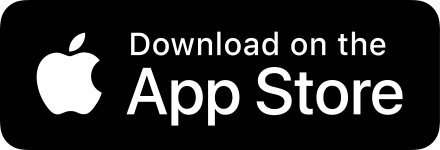
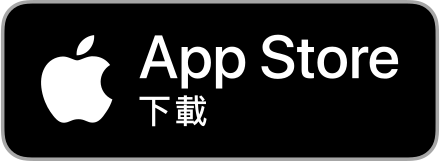
amends to zh-Hant localized

Changed region(s): [[0.2659, 0.2133, 0.9159, 0.8533], [0.0, 0.0, 1.0, 1.0], [0.0591, 0.2133, 0.2659, 0.7733]]

diff --git a/_includes/footer.html b/_includes/footer.html
@@ -1,6 +1,6 @@
 <footer>
 	{% if site.your_name %}
-	<p class="footerText">Made by {% if site.your_link %}<a href="{{ site.your_link }}">{% endif %}{{ site.your_name }}{% if site.your_link %}</a>{% endif %}{% if site.your_city %} in {{ site.your_city }}{% endif %}</p>
+	<p class="footerText">{% if site.your_city %}來自{{ site.your_city }}的{% endif %}{% if site.your_link %}<a href="{{ site.your_link }}">{% endif %}{{ site.your_name }}{% if site.your_link %}</a>{% endif %}所製作</p>
 	{% endif %}
 	<div class="footerIcons">
 

diff --git a/_pages/privacypolicy.md b/_pages/privacypolicy.md
@@ -1,11 +1,11 @@
 ---
 layout: page
-title: Privacy Policy for Aloud! - Text to Speech
+title: Privacy Policy for Hanyu Pinyin Dictionary
 include_in_header: false
 ---
 
 # Privacy Policy
-This privacy policy governs your use of the software application Aloud! - Text to Speech (“Application”) for mobile devices that was created by AppAppWorks. The Application is&nbsp;a text to speech reader that synthesizes speech from plain text supporting several languages. Users can import text in various formats like PDF, DOCX, EPUB and etc, and have the contents and reading progresses stored for easy access.&nbsp; 
+This privacy policy governs your use of the software application Hanyu Pinyin Dictionary (“Application”) for mobile devices that was created by AppAppWorks. The Application is&nbsp;a dictionary supporting lookup of Hanyu Pinyin by Chinese characters and vice versa.&nbsp; 
 
 ## What information does the Application obtain and how is it used?
 
